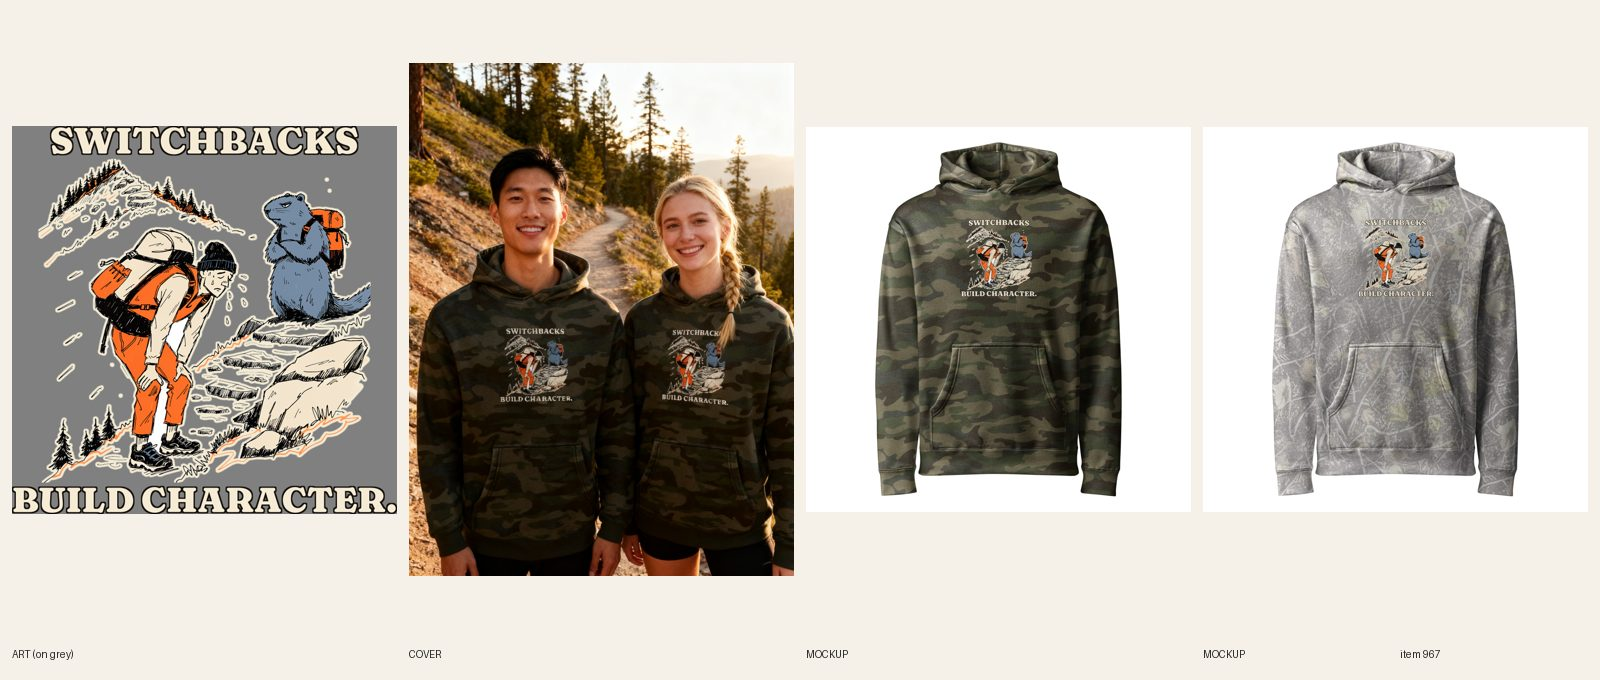
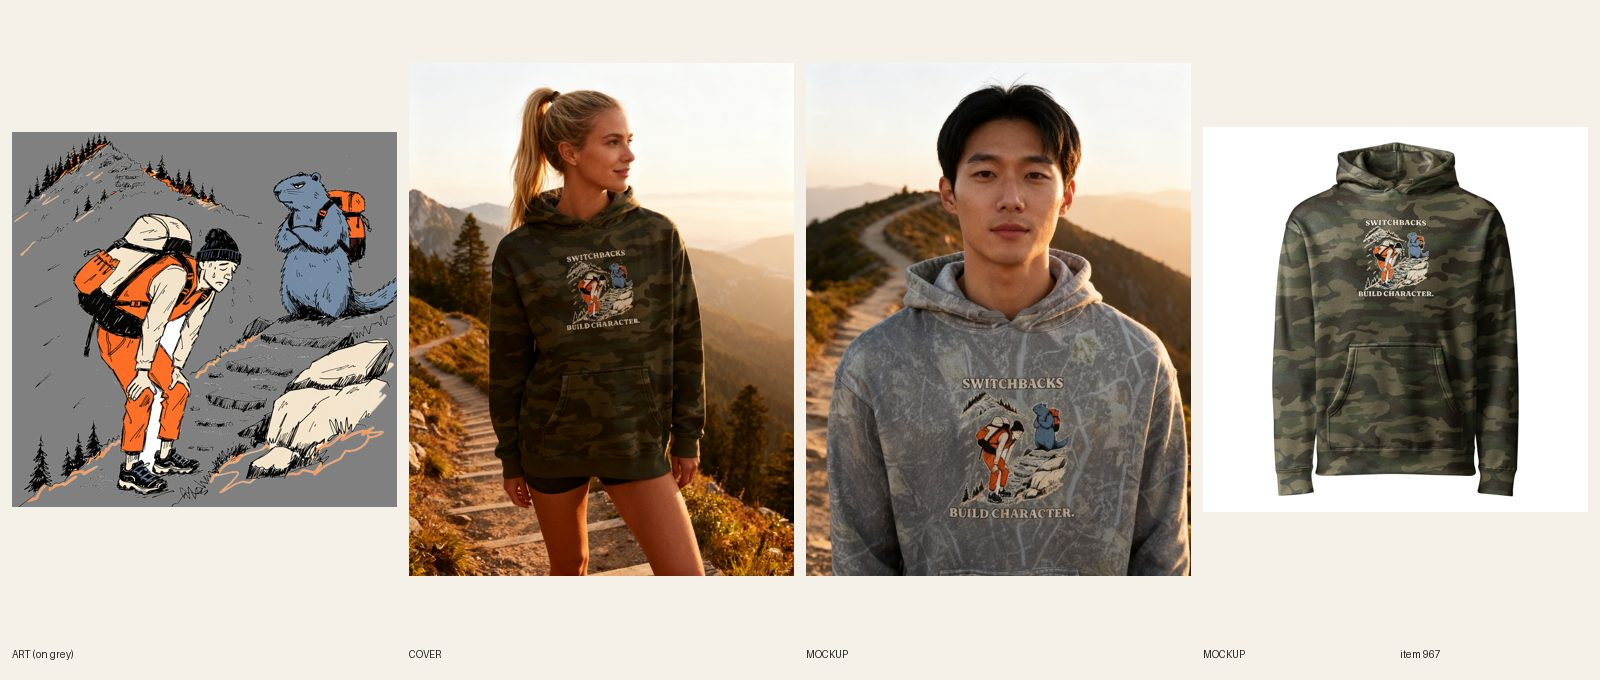
[B] review 967 photos redone; run end, release lock
Claude-Session: https://claude.ai/code/session_01SLsSLPX9mqamDb5Sz5V5Y1

diff --git a/docs/intake-log.md b/docs/intake-log.md
@@ -1,4 +1,4 @@
-RUNNING lane B since 2026-10-31 17:35 UTC
+2026-10-31 17:39 UTC — [B] Builder run end: 1 item (#967 REDO photos fixed, back to REVIEW, DRAFT); second item skipped, a full camo build did not fit this run. New products today: 0 of 6. fal ~$0.26. Lock released.
 2026-10-31 14:51 UTC — [H] Helper run: Telegram inbox empty (getUpdates returned 0 updates; no pause, resume, TikTok links or other messages; nothing to consume). Shopify: 0 orders (list-orders returned none), so no order alert and no Printful hold check. Audit 768 live products: 0 errors, 472 warnings left alone; committed docs/cohesion-audit.md and .json (npm install first: node_modules/.bin/esbuild was missing; node_modules symlink restored after). Category check: 0 products without a Shopify category (no mutation). Site check: mens-hunting-sat-11-hours-saw-a-squirrel-camo-hoodie, mens-fishing-catch-and-release-camo-hoodie, mens-fishing-fly-fishing-mostly-untangling-camo-hoodie, womens-fishing-out-fished-him-again-camo-hoodie, unisex-outdoors-went-outside-it-was-fine-embroidered-zip-hoodie and womens-gym-lunges-and-lattes-embroidered-zip-hoodie all 200; homepage 200. Stuck work: no pipeline item at BUILDING; no lane lock held. Daily summary not due (director digest already sent today at 14:30). Lock released.
 2026-10-31 14:30 UTC — [D] Director run: inbox nothing new (Sam's 10-29 'centered and justified' photo still open; asked again in the digest). Reviewed 2 camo twin sheets: #966 Out-Fished Him Again APPROVED (REDO fixed: no cream spike between rod, arm and bass; new photos read right; sheet copied to reference/best); #967 Switchbacks Build Character REDO, photos only (R6.9 braid over the K/S of SWITCHBACKS on photo 1; R6.8 photo 2 prints BUILD CHARACTHE); art accepted as built on S5/A+ instead of the re-brief's S2/B3, next camo twin takes B3. 6 new LIVE (Oct 31 Chicago day, cap reached): camo #963 #964 #965 #966 (camo about 37 of 40) plus held zip approvals #918 Went Outside and #927 Lunges & Lattes (zips already 66 live tagged); R11.15 re-check passed; all ACTIVE + Online Store, Headless, Google & YouTube, audit --handle PASS (1 warn: no lifestyle cover). Ran nightly-rebuild by hand; all 6 pages and both collections 200. No new briefs: 47 READY, over the 6-12 target. Telegram: digest sent. Lock released.
 2026-10-31 14:46 UTC — [B] Builder run end: 2 items, #966 REDO fixed (halo spike) and #967 camo twin rebuilt (S5, A+), both DRAFT for director. New products today: 0 of 6 (in-place). fal ~$0.4. Lock released.

diff --git a/docs/pipeline/967-camo-twin-national-park-switchbacks-build-character.md b/docs/pipeline/967-camo-twin-national-park-switchbacks-build-character.md
@@ -1,4 +1,4 @@
-status: REDO
+status: REVIEW
 lane: B
 type: twin
 id: 967
@@ -31,3 +31,4 @@ push: camo
   1. R6.9 (hair over a letter): photo 1, the woman's braid lies over the end of SWITCHBACKS (the K and S). Regenerate with "hair tied back or behind the shoulders" and check the top line letter by letter.
   2. R6.8 (garbled text): photo 2, the man's print reads BUILD CHARACTHE. Regenerate from the Deadwood mockup as --design and read both people's prints at 200% before saving (R6.9: max one more try each, then keep the better one and the flat front leads).
   3. Remake docs/review/967.jpg with both photos shown.
+- 2026-10-31 17:39 UTC [B]: REDO photos done. Photo 1 woman (ponytail, no hair over print) on Forest, photo 2 man on Deadwood from its mockup; both read SWITCHBACKS / BUILD CHARACTER. cleanly at full size. 3 seedream calls beyond the first pair: couple shots (2) garbled CHARACTER (R6.8), so singles kept; Unisex cover is one person each, man and woman across photos 1-2 (7u: director may prefer title or a couple retry). Media replaced in place via fileUpdate, sheet docs/review/967.jpg remade. fal ~$0.26.
